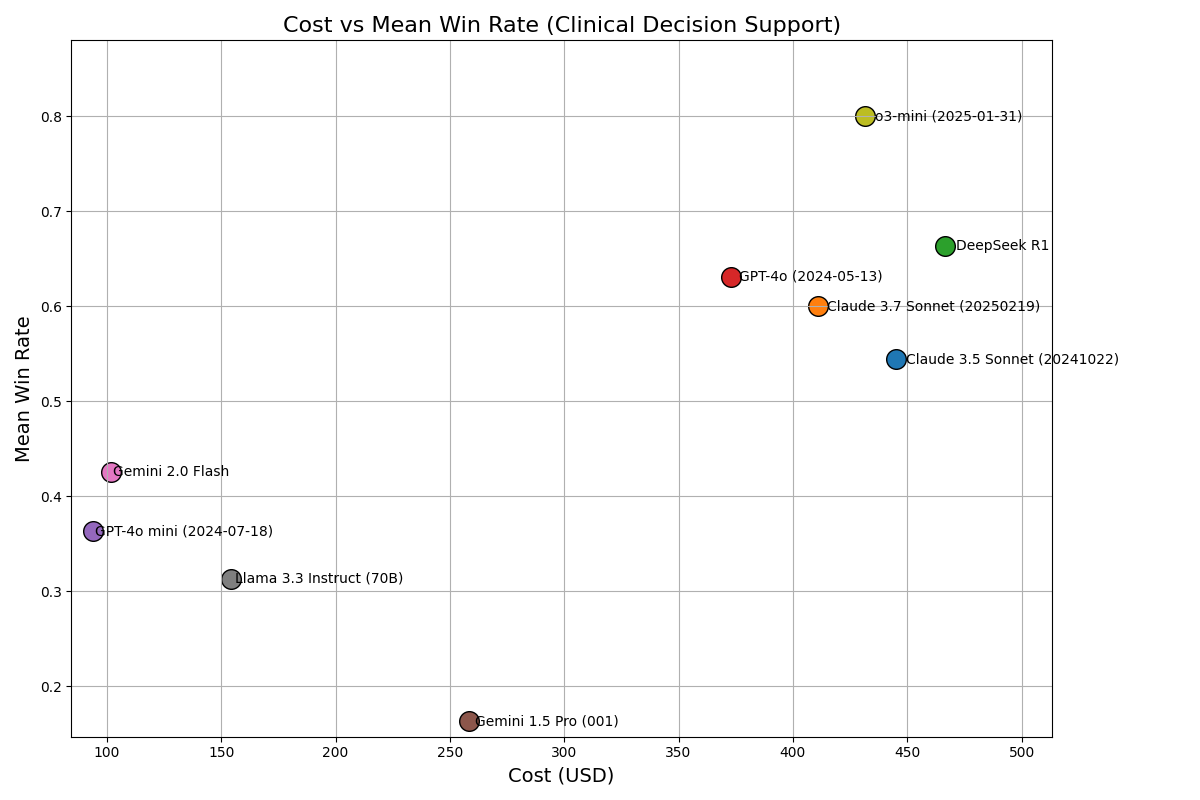
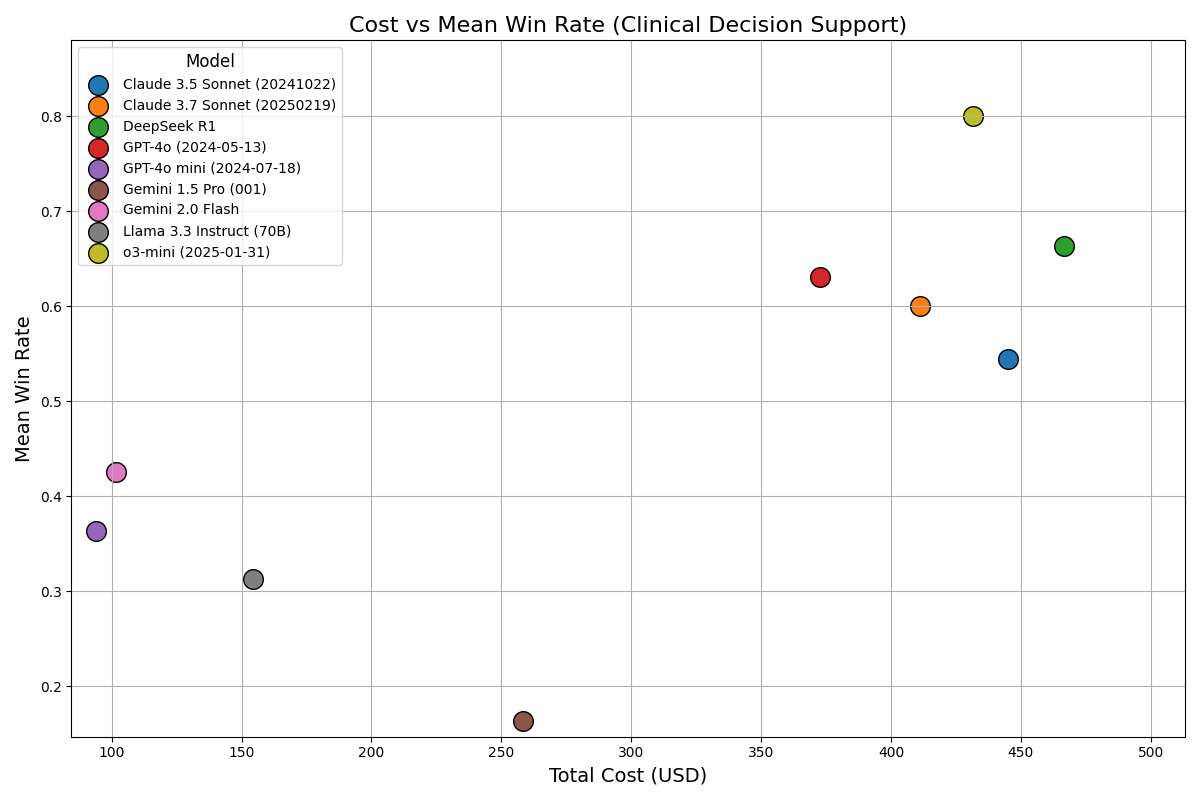
Update plots

diff --git a/src/medhelm/plots/plot_costs.py b/src/medhelm/plots/plot_costs.py
@@ -1,9 +1,8 @@
 import argparse
 import pandas as pd
 import matplotlib.pyplot as plt
-import os
 
-from medhelm.utils.constants import MODEL_NAME_MAPPING
+from medhelm.utils.constants import BENCHMARKS, BENCHMARK_NAME_MAPPING,  MODEL_NAME_MAPPING
 
 
 def main(
@@ -12,9 +11,6 @@ def main(
     output_file: str,
     category: str
 ):
-    import matplotlib.pyplot as plt
-    from medhelm.utils.constants import BENCHMARKS, BENCHMARK_NAME_MAPPING
-
     data = pd.read_csv(costs_file)
 
     # Filter benchmarks by category if specified
@@ -49,7 +45,7 @@ def main(
     }).dropna()
 
     print(merged_data)
-    
+
     colors = plt.cm.tab10(range(len(merged_data)))
     merged_data['Color'] = [colors[i] for i in range(len(merged_data))]
 
@@ -60,20 +56,18 @@ def main(
             row['Mean Win Rate'], 
             color=row['Color'], 
             edgecolors='black', 
-            s=200
-        )
-        plt.text(
-            row['Aggregated Cost'] * 1.01,
-            row['Mean Win Rate'],
-            model,
-            fontsize=10,
-            verticalalignment='center'
+            s=200,
+            label=model  # Label for traditional legend
         )
 
-    plt.title(f'Cost vs Mean Win Rate ({category or "all"})', fontsize=16)
-    plt.xlabel('Cost (USD)', fontsize=14)
+    title = 'Cost vs Mean Win Rate'
+    if category:
+        title = f'{title} ({category})'
+    plt.title(title, fontsize=16)
+    plt.xlabel('Total Cost (USD)', fontsize=14)
     plt.ylabel('Mean Win Rate', fontsize=14)
     plt.grid(True)
+    plt.legend(title="Model", fontsize=10, title_fontsize=12, loc='best')  # Traditional legend
     plt.tight_layout()
 
     plt.xlim(merged_data['Aggregated Cost'].min() * 0.9, merged_data['Aggregated Cost'].max() * 1.1)
@@ -88,7 +82,7 @@ if __name__ == "__main__":
     parser.add_argument('--costs_file', '-c', type=str, required=True, help='Path to the costs CSV file')
     parser.add_argument('--leaderboard_file', '-l', type=str, required=True, help='Path to the leaderboard CSV file')
     parser.add_argument('--output_file', '-o', type=str, default='./plots/cost_vs_winrate.png', help='Path for the output image file')
-    parser.add_argument('--category', type=str, required=False, help='Path for the output image file')
+    parser.add_argument('--category', type=str, required=False, help='Benchmark category to filter by')
     args = parser.parse_args()
     main(
         args.costs_file,

diff --git a/src/medhelm/token_utilization.py b/src/medhelm/token_utilization.py
@@ -1,0 +1,47 @@
+import pandas as pd
+import argparse
+
+def calculate_total_tokens_and_cost(input_file, output_file):
+    # Read the input CSV with thousands separator
+    df = pd.read_csv(input_file, thousands=',')
+
+    # Group by 'Model' and sum the relevant columns
+    grouped = df.groupby('Model', as_index=False)[[
+        'Total Input Tokens', 'Total Output Tokens',
+        'Total Judge Input Tokens', 'Total Judge Output Tokens',
+        'Cost Input Tokens', 'Cost Output Tokens',
+        'Cost Jury Input Tokens', 'Cost Jury Output Tokens'
+    ]].sum()
+
+    # Add derived columns
+    grouped['Benchmark Tokens'] = grouped['Total Input Tokens'] + grouped['Total Output Tokens']
+    grouped['Benchmark Cost'] = grouped['Cost Input Tokens'] + grouped['Cost Output Tokens']
+
+    # Add judge/jury total tokens and cost
+    grouped['Total Judge Tokens'] = grouped['Total Judge Input Tokens'] + grouped['Total Judge Output Tokens']
+    grouped['Total Jury Cost'] = grouped['Cost Jury Input Tokens'] + grouped['Cost Jury Output Tokens']
+
+    # Add total cost based on the sum of benchmark cost and jury cost
+    grouped['Total Cost'] = grouped['Benchmark Cost'] + grouped['Total Jury Cost']
+
+    # Reorder or select columns to include in output
+    grouped = grouped[[
+        'Model',
+        'Total Input Tokens', 'Total Output Tokens', 'Benchmark Tokens',
+        'Total Judge Input Tokens', 'Total Judge Output Tokens', 'Total Judge Tokens',
+        'Cost Input Tokens', 'Cost Output Tokens', 'Benchmark Cost',
+        'Cost Jury Input Tokens', 'Cost Jury Output Tokens', 'Total Jury Cost', 'Total Cost'
+    ]]
+
+    # Write the result to the output CSV
+    grouped.to_csv(output_file, index=False)
+
+    print(f"Total tokens, judge tokens, costs, and total cost per model have been written to {output_file}")
+
+if __name__ == "__main__":
+    parser = argparse.ArgumentParser(description="Calculate total tokens and cost per model from a CSV file.")
+    parser.add_argument('--input_file', '-i', type=str, required=True, help="Path to the input CSV file (cost CSV)")
+    parser.add_argument('--output_file', '-o', type=str, default="../data/token_cost_summary.csv", help="Path to the output CSV file")
+    args = parser.parse_args()
+
+    calculate_total_tokens_and_cost(args.input_file, args.output_file)
